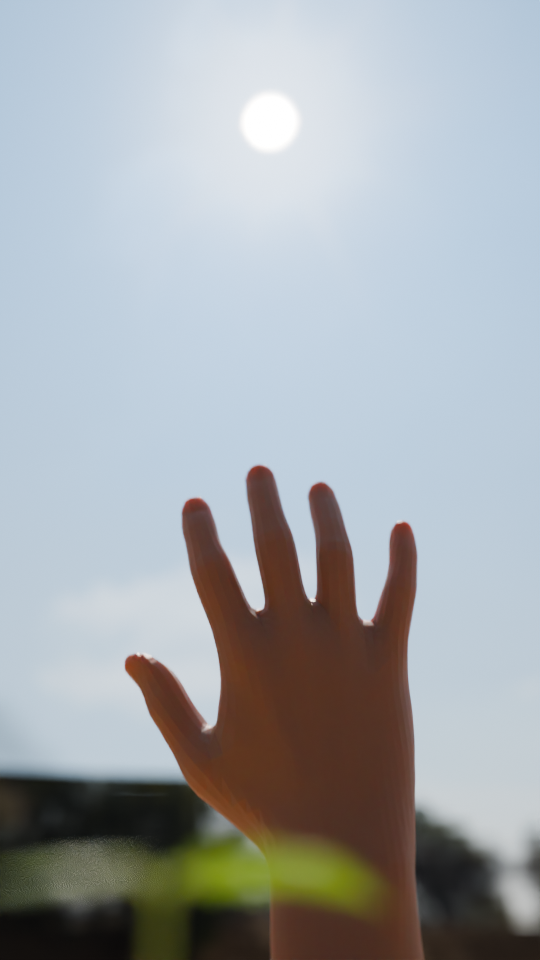
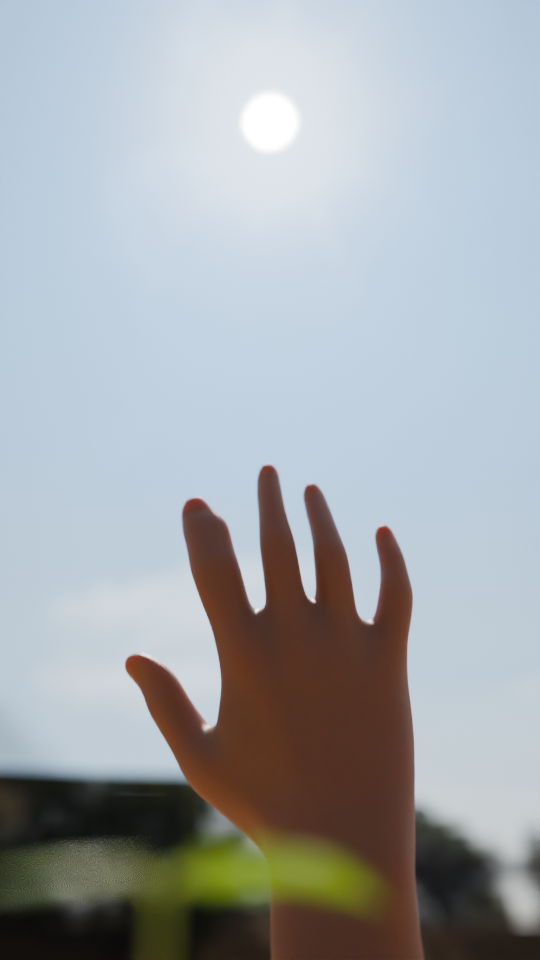
S3: sh04 hand finger spread, sh11 softer sun-break glow
Claude-Session: https://claude.ai/code/session_01FDtTGh1jzB1quMRarht36i

Changed region(s): [[0.3852, 0.4688, 0.5333, 0.6562], [0.6519, 0.5312, 0.7704, 0.6562], [0.563, 0.5, 0.6519, 0.625]]

diff --git a/video/blender/shots/sh04.py b/video/blender/shots/sh04.py
@@ -149,6 +149,8 @@ def make_hand(ctx, M):
             m.levels = min(1, m.total_levels)
     mesh.data.materials.clear()
     mesh.data.materials.append(mat_skin())
+    spread_fingers(mesh)
+    sub = mesh.modifiers.new("Smooth", "SUBSURF"); sub.levels = 1; sub.render_levels = 2
     vs = [v.co for v in mesh.data.vertices]
     zmin = min(v.z for v in vs); zmax = max(v.z for v in vs)
     top = [v for v in vs if v.z > zmax - 0.04]; bot = [v for v in vs if v.z < zmin + 0.04]
@@ -196,6 +198,23 @@ def make_hand(ctx, M):
 
 
 PALM_SIGN = 1.0
+
+
+def spread_fingers(mesh, knuckle_z=-0.112, amount=0.17):
+    """The base mesh is a flat rest pose; fan the four fingers apart (straining, reaching) by rotating
+    each finger vertex about the palm normal around its knuckle, blended in over the first phalanx."""
+    for v in mesh.data.vertices:
+        x, y, z = v.co
+        if z > knuckle_z or x > 0.045:            # palm, wrist and thumb stay
+            continue
+        w = min(1.0, (knuckle_z - z) / 0.02)       # 0 at the knuckle -> 1 a phalanx later
+        a = -amount * (x - 0.004) / 0.05 * w
+        dx, dz = x - x, z - knuckle_z
+        # rotate (x, z) about (x_k, knuckle_z) where x_k = the finger's own column at the knuckle
+        px = x; pz = knuckle_z
+        rx = px + (x - px) * math.cos(a) - (z - pz) * math.sin(a)
+        rz = pz + (x - px) * math.sin(a) + (z - pz) * math.cos(a)
+        v.co = (rx, y, rz)
 
 
 def mat_skin():

diff --git a/video/blender/shots/sh11.py b/video/blender/shots/sh11.py
@@ -182,7 +182,7 @@ def world_rain(ctx, sdir, t_kar):
     brk = nt.nodes.new("ShaderNodeValue"); brk.name = "BREAK"
     for tt, v in ((ctx.t0, 0.0), (t_kar - 0.4, 0.0), (t_kar + 0.3, 1.0), (ctx.t1 + 0.5, 1.15)):
         brk.outputs[0].default_value = v; brk.outputs[0].keyframe_insert("default_value", frame=tt * C.FPS)
-    g = mth("ADD", mth("MULTIPLY", glow_wide, 1.6), mth("MULTIPLY", glow_tight, 9.0))
+    g = mth("ADD", mth("MULTIPLY", glow_wide, 0.7), mth("MULTIPLY", glow_tight, 6.0))
     g_cam = mth("ADD", g, mth("MULTIPLY", disc, 400.0))
     lp = nt.nodes.new("ShaderNodeLightPath")
     g_all = mth("ADD", g, mth("MULTIPLY", mth("MULTIPLY", disc, 400.0), lp.outputs["Is Camera Ray"]))

diff --git a/video/review/sh04/NOTES.md b/video/review/sh04/NOTES.md
@@ -43,4 +43,4 @@ the cracked-earth shader lost a fine-noise bump that cost ~15 % for invisible de
 
 ## Known issues / next
 * heat shimmer is subtle (deliberately - say if you want it stronger).
-* hand = rest pose of the base mesh (straight fingers); a finger spread/curl pass is next.
+* hand: fingers now fanned apart (straining reach) by a knuckle-pivot deformation of the base mesh + subdivision (22.6 still updated); the bundle's multires has only 1 level, so skin micro-detail comes from the shader (pores/creases bump) — fine for a backlit silhouette.

diff --git a/video/review/sh11/NOTES.md b/video/review/sh11/NOTES.md
@@ -42,6 +42,6 @@ cracked earth's displacement cost (it is ~35 % of every frame in both sh04 and s
 * crowns shortened (no "coins"), wet spots darker.
 
 ## Known issues / next
-* exit frame (63.95) is a near-white sky — fine for the cloud dissolve into sh12? (tell me if you
-  want more cloud texture there).
+* exit frame (63.95): sun glow through the thinning cloud deck (glow reduced so the sky is not a flat
+  white any more; stills 63.30/63.95 updated after the animatic was made).
 * ground in the first second is still a bit warm for the rain light.
